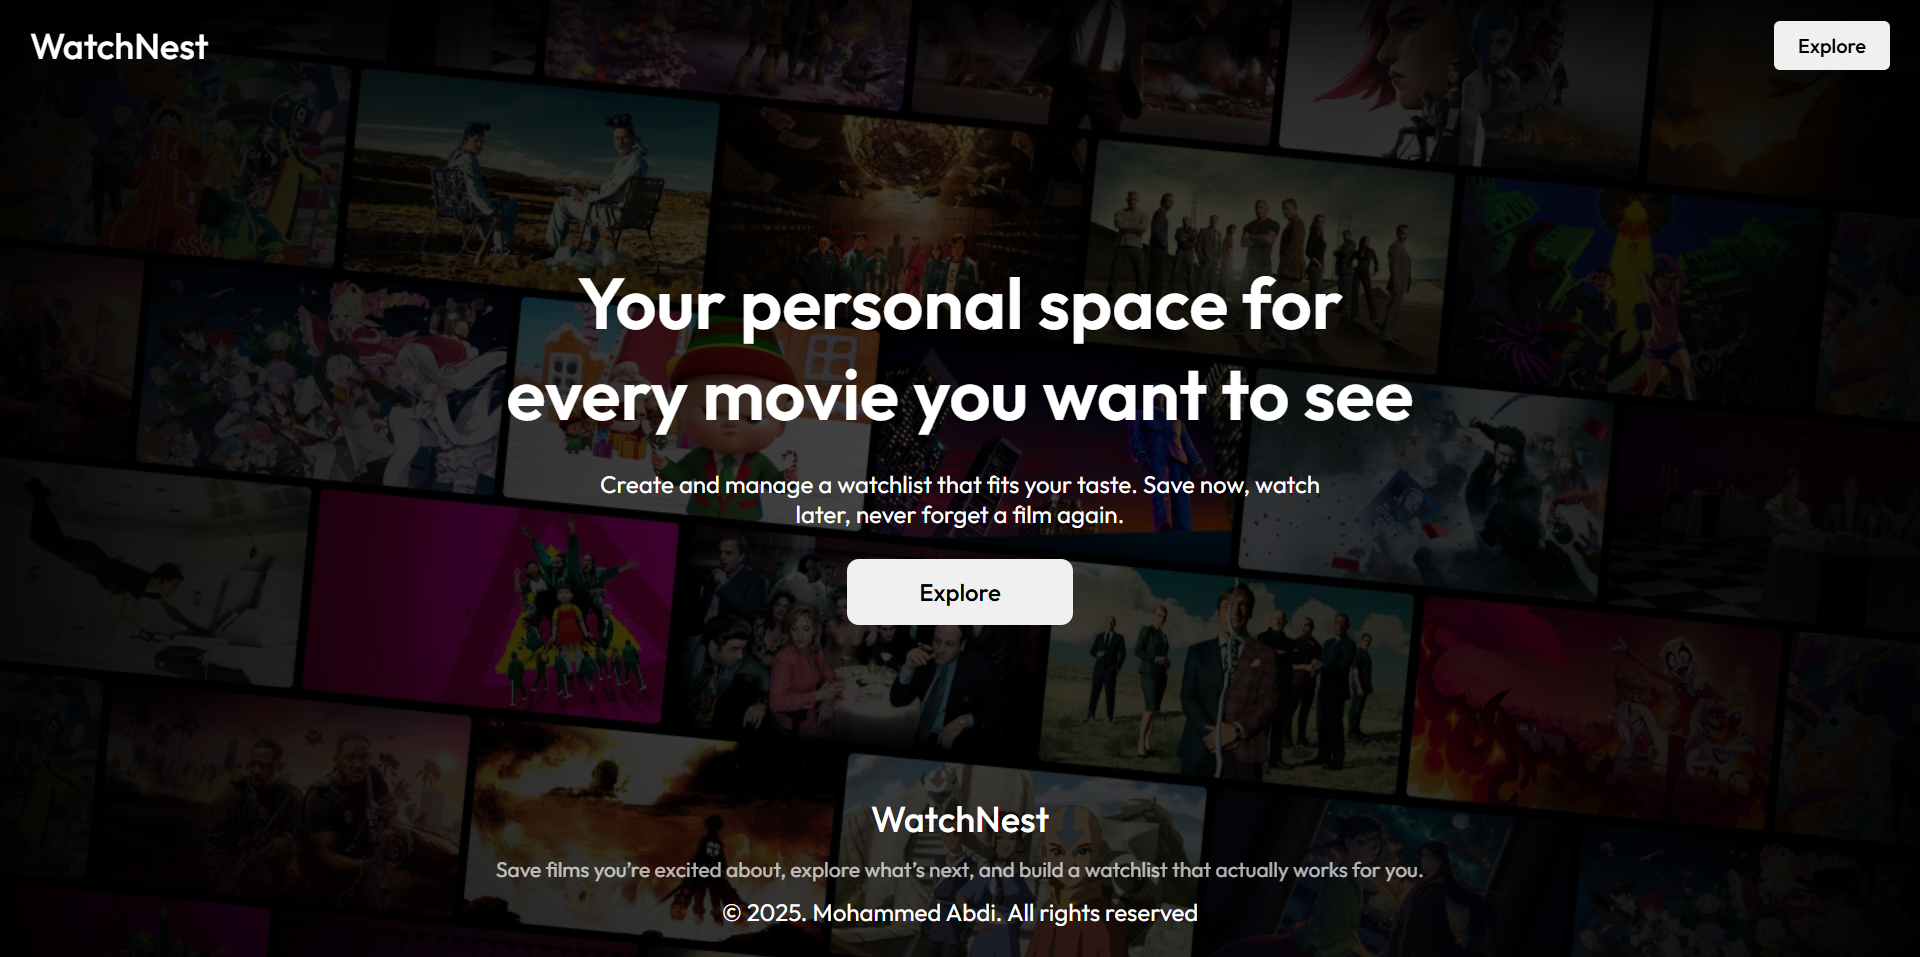
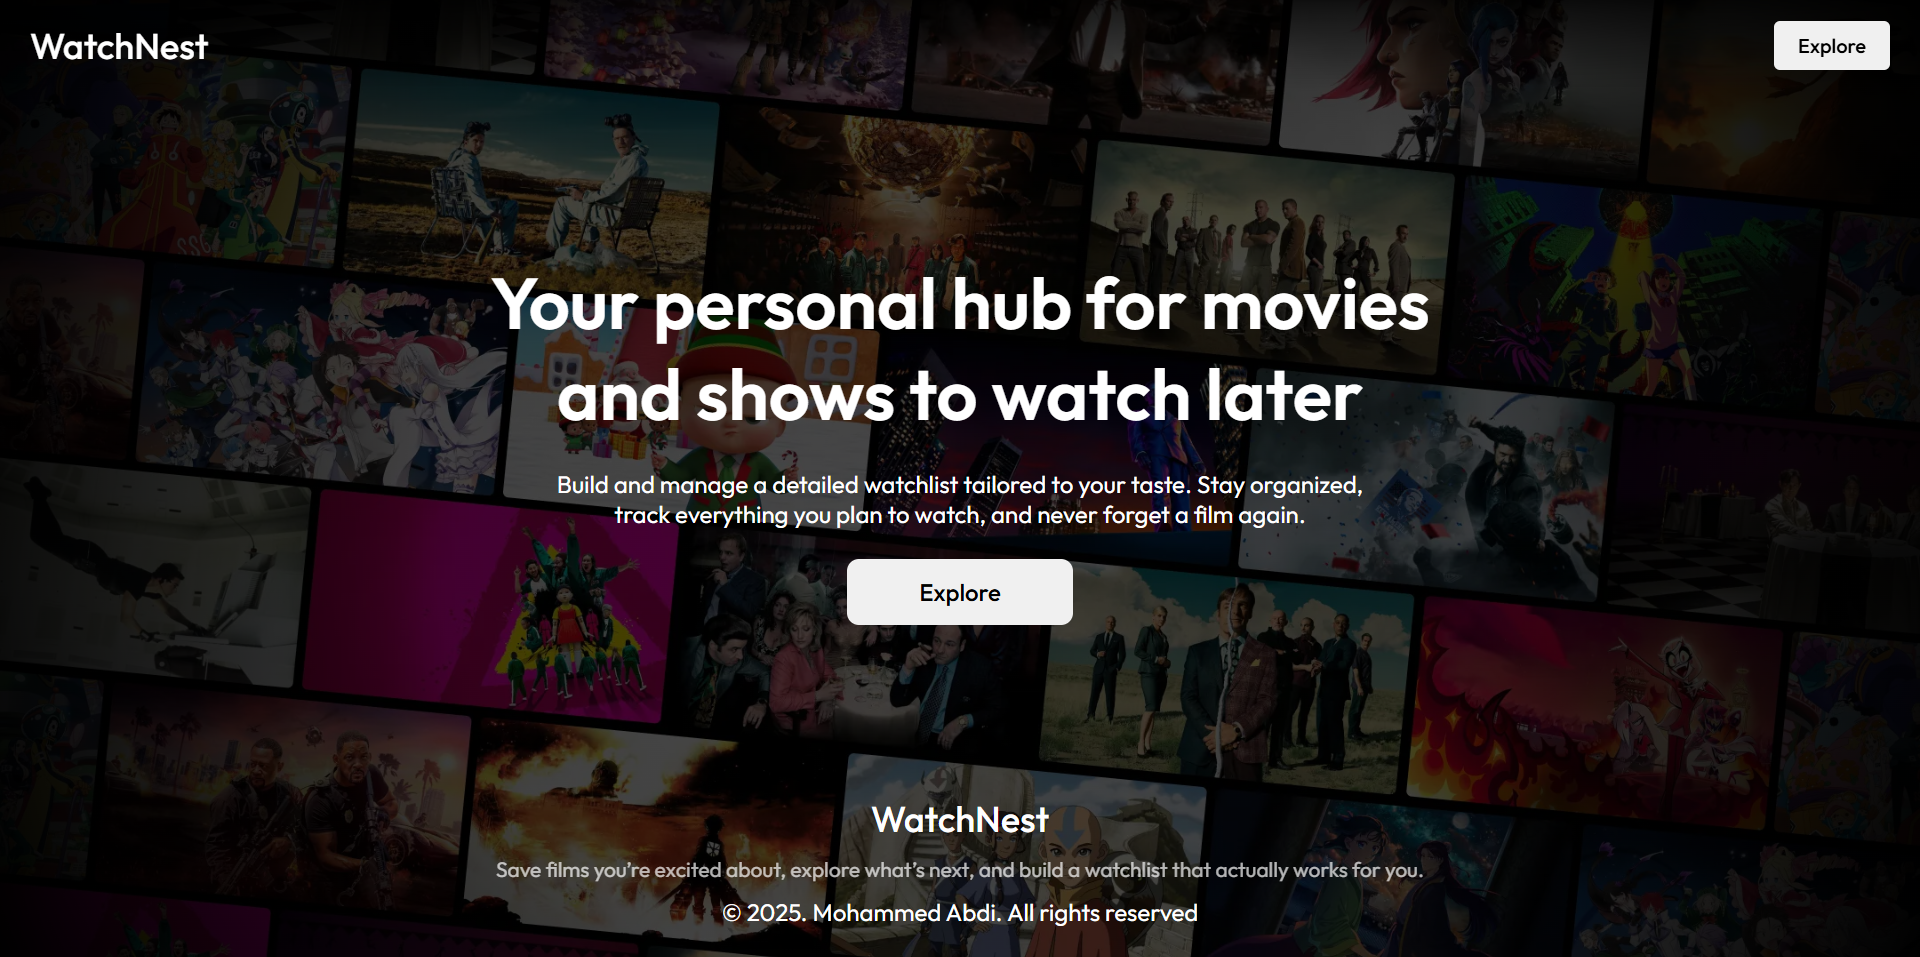
docs: update hero main and sub text for clearer messaging

Changed region(s): [[0.25, 0.2727, 0.75, 0.4545], [0.2812, 0.4848, 0.7188, 0.5455]]

diff --git a/src/components/Hero.jsx b/src/components/Hero.jsx
@@ -17,12 +17,13 @@ function Hero() {
     <section style={heroStyle}>
       <div>
         <h1 style={{ maxWidth: "40rem" }}>
-          Your personal space for every movie you want to see
+          Your personal hub for movies and shows to watch later
         </h1>
       </div>
-      <p style={{ maxWidth: "32rem" }}>
-        Create and manage a watchlist that fits your taste. Save now, watch
-        later, never forget a film again.
+      <p style={{ maxWidth: "34rem" }}>
+        Build and manage a detailed watchlist tailored to your taste. Stay
+        organized, track everything you plan to watch, and never forget a film
+        again.
       </p>
       <Link to="/movies-explore">
         <ActionButton
